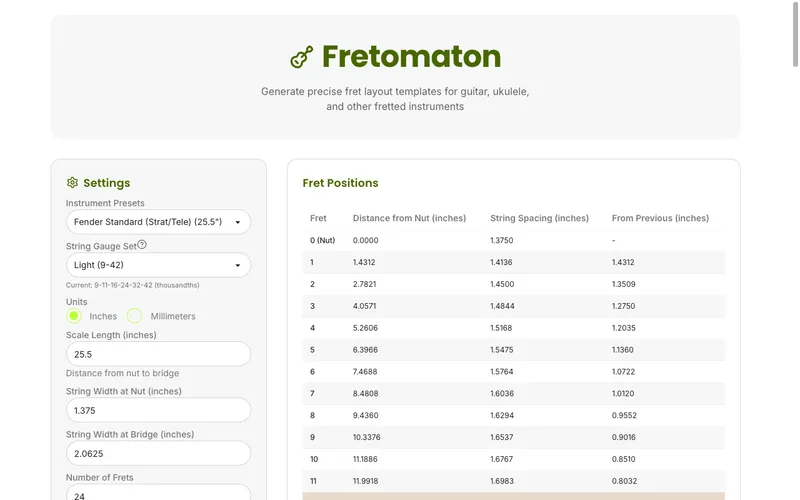
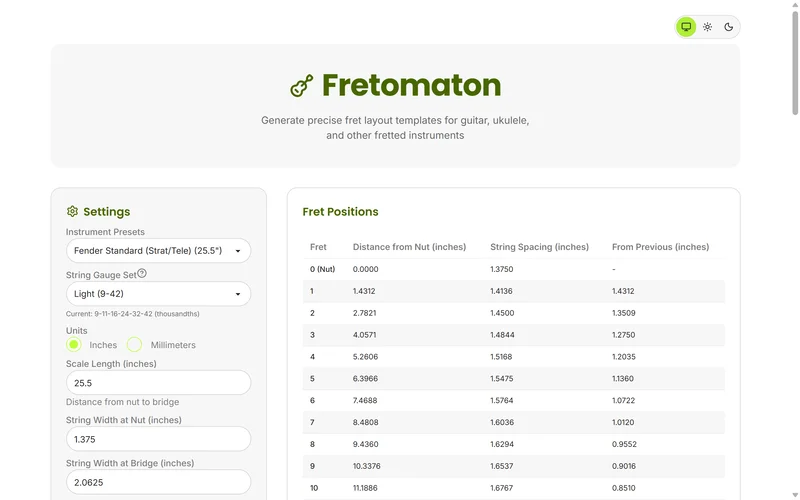
feat: add Segmentor and Soteria Model and refresh project entries (#33)

diff --git a/src/data/projects.ts b/src/data/projects.ts
@@ -3,6 +3,8 @@ import fretomaton from "../assets/projects/fretomaton.webp";
 import hexcalculator from "../assets/projects/hexcalculator.webp";
 import marriage from "../assets/projects/marriage.webp";
 import martysgarage from "../assets/projects/martysgarage.webp";
+import segmentor from "../assets/projects/segmentor.webp";
+import soteriaModel from "../assets/projects/soteria-model.webp";
 import styleguideGenerator from "../assets/projects/styleguide-generator.webp";
 import toolbox from "../assets/projects/toolbox.webp";
 import tours from "../assets/projects/tours.webp";
@@ -60,6 +62,16 @@ export const projects: Project[] = [
     image: styleguideGenerator,
   },
   {
+    slug: "segmentor",
+    name: "Segmentor",
+    blurb:
+      "A studio for designing segmented and stave woodturned bowls and vases. Sculpt a vessel profile with Bezier curves, preview the glue-up and turned shape in 3D, check wall clearances, and print kerf-accurate cut sheets and 1:1 shop templates offline.",
+    tech: ["React", "TypeScript", "Three.js", "Vite", "PWA"],
+    url: "https://segmentor.wouldbymarty.com",
+    repo: "https://github.com/mkokes/segmentor",
+    image: segmentor,
+  },
+  {
     slug: "tours",
     name: "Tours",
     blurb:
@@ -110,6 +122,16 @@ export const projects: Project[] = [
     image: hexcalculator,
   },
   {
+    slug: "soteria-model",
+    name: "Soteria Model",
+    blurb:
+      "An open-source field guide and blueprint for community-owned mutual aid and protection networks. Built in English, Spanish, Somali and Arabic with printable Know Your Rights cards and offline PWA access so pages stay readable without a connection.",
+    tech: ["Astro", "Starlight", "TypeScript", "PWA", "GitHub Pages"],
+    url: "https://soteriamodel.com",
+    repo: "https://github.com/mkokes/soteria-model",
+    image: soteriaModel,
+  },
+  {
     slug: "martys-garage",
     name: "Marty's Garage",
     blurb:
@@ -124,7 +146,7 @@ export const projects: Project[] = [
     name: "Would? By Marty",
     blurb:
       "A landing page for my woodworking. A video hero shows the shop, and my latest Instagram posts are pulled in when the site rebuilds each day.",
-    tech: ["React", "Vite", "TypeScript", "Turborepo", "GitHub Actions"],
+    tech: ["React", "TypeScript", "Vite", "PWA", "GitHub Actions", "GitHub Pages"],
     url: "https://wouldbymarty.com",
     repo: "https://github.com/mkokes/wouldbymarty",
     image: wouldbymarty,

diff --git a/CHANGELOG.md b/CHANGELOG.md
@@ -9,6 +9,7 @@ and this project adheres to [Semantic Versioning](https://semver.org/spec/v2.0.0
 
 ### Added
 
+- Segmentor and Soteria Model project cards (with Segmentor featured in the top three on the home page).
 - GPL-3.0-or-later license (`LICENSE`).
 - Tours project card, linking to the 360° photo albums at tours.martykokes.com.
 - Tours link in the header and mobile menu, pointing to tours.martykokes.com, which uses the same navigation.
@@ -17,6 +18,7 @@ and this project adheres to [Semantic Versioning](https://semver.org/spec/v2.0.0
 
 ### Changed
 
+- Updated Would? By Marty tech stack (PWA and GitHub Pages instead of Turborepo) and refreshed project screenshots for Would? By Marty, Tours and Fretomaton.
 - New home page intro: "Developer by trade, maker by nature", covering software, AI, mechanical projects, electronics and woodworking.
 
 ## [1.0.0] - 2026-10-28
